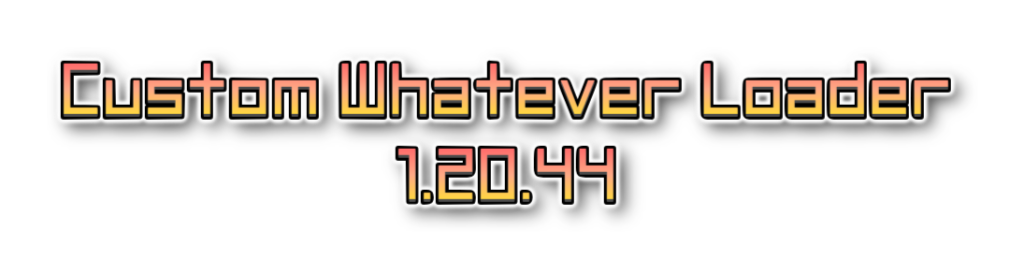
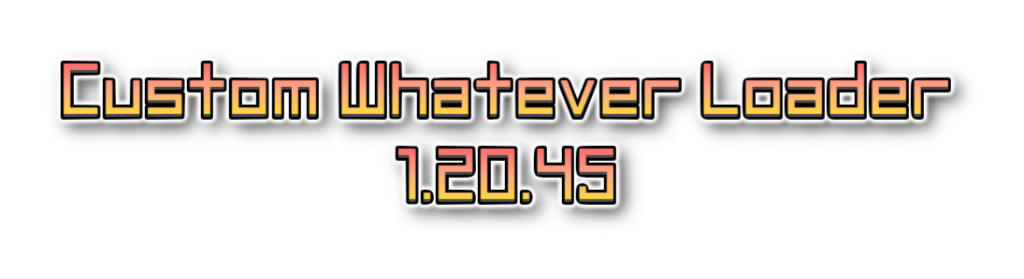
build(CWL): compiled for 23.188 Stable

diff --git a/CustomWhateverLoader/Loader/CwlAsmInfo.cs b/CustomWhateverLoader/Loader/CwlAsmInfo.cs
@@ -4,6 +4,6 @@ using Cwl;
 [assembly: AssemblyVersion(ModInfo.Version)]
 [assembly: AssemblyFileVersion(ModInfo.Version)]
 [assembly: AssemblyInformationalVersion(GitVersionInformation.CommitDate)]
-[assembly: AssemblyProduct(ModInfo.Name)]
+[assembly: AssemblyProduct(GitVersionInformation.Sha)]
 [assembly: AssemblyTitle(ModInfo.Name)]
 [assembly: AssemblyMetadata("Repo", "https://github.com/gottyduke/Elin.Plugins/tree/master/CustomWhateverLoader")]

diff --git a/CustomWhateverLoader/Loader/CustomWhateverLoader.cs b/CustomWhateverLoader/Loader/CustomWhateverLoader.cs
@@ -16,7 +16,7 @@ public static class ModInfo
 #endif
     public const string Guid = "dk.elinplugins.customdialogloader";
     public const string Name = "Custom Whatever Loader";
-    public const string Version = "1.20.44";
+    public const string Version = "1.20.45";
 }
 
 [BepInPlugin(ModInfo.Guid, ModInfo.Name, ModInfo.Version)]
